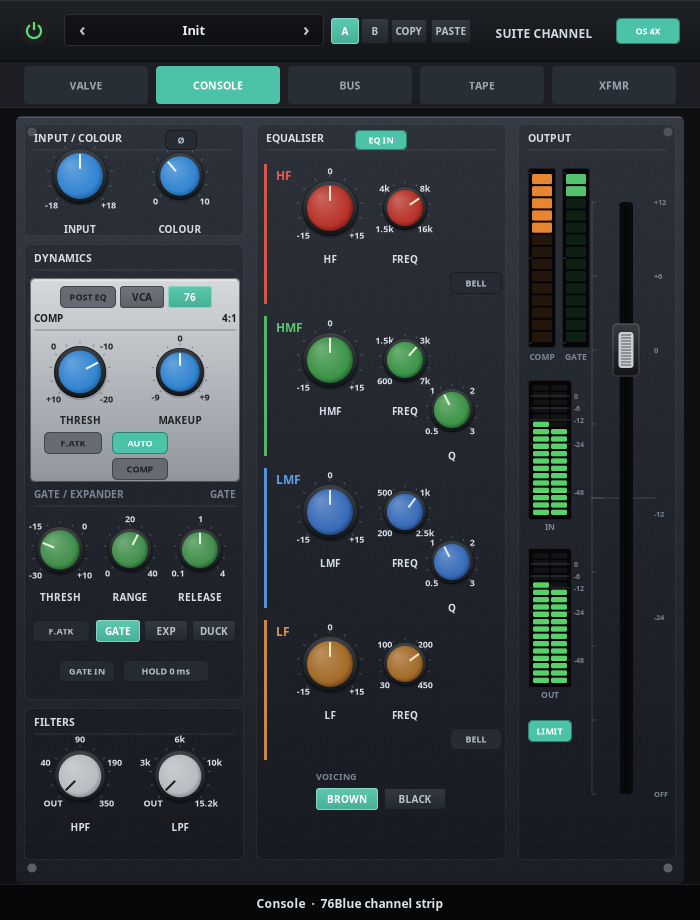
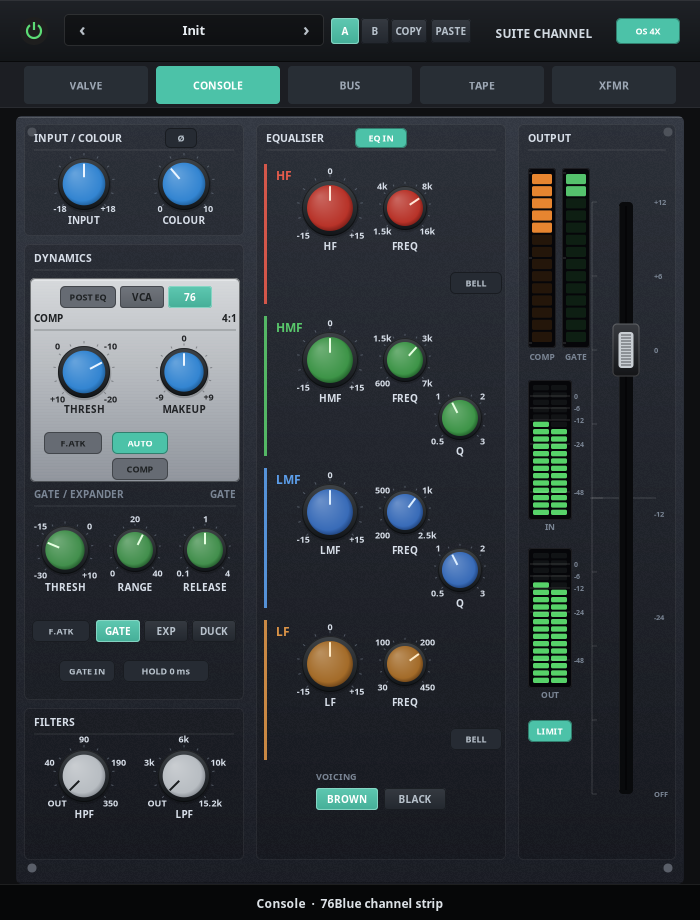
0.2.4: tighten input/EQ spacing, centre filter knobs

diff --git a/src/ui/panel.cpp b/src/ui/panel.cpp
@@ -415,10 +415,10 @@ void Panel::layout(const Shared& shared, const PanelState& state) {
 
   // Input / colour.
   const size_t inputRow = widgets_.size();
-  knob(P_INPUT, 80, 176, 28, "INPUT", sc(kScaleInput), true);
-  knob(P_COLOR_AMOUNT, 180, 176, 24, "COLOUR", sc(kScaleAmount), true);
-  alignLabels(inputRow, 233.0);
-  pill(P_POLARITY, 165, 130, 32, 20, "\u00d8");
+  knob(P_INPUT, 84, 184, 26, "INPUT", sc(kScaleInput), true, 1.30);
+  knob(P_COLOR_AMOUNT, 184, 184, 26, "COLOUR", sc(kScaleAmount), true, 1.30);
+  alignLabels(inputRow, 224.0);
+  pill(P_POLARITY, 165, 128, 32, 20, "\u00d8");
 
   // Dynamics.
   pill(P_DYN_POST, 60, 286, 56, 22, "POST EQ");
@@ -429,12 +429,12 @@ void Panel::layout(const Shared& shared, const PanelState& state) {
   widgets_.back().onSilver = silverComp;
 
   const size_t compKnobRow = widgets_.size();
-  knob(P_COMP_THRESHOLD, 80, 372, 26, "THRESH",
+  knob(P_COMP_THRESHOLD, 84, 372, 26, "THRESH",
        sc(kScaleCompThresh), true);
   widgets_.back().onSilver = silverComp;
-  knob(P_COMP_MAKEUP, 180, 372, 24, "MAKEUP", sc(kScaleMakeup), true);
+  knob(P_COMP_MAKEUP, 184, 372, 24, "MAKEUP", sc(kScaleMakeup), true);
   widgets_.back().onSilver = silverComp;
-  alignLabels(compKnobRow, 424.0);
+  alignLabels(compKnobRow, 413.0);
   pill(P_COMP_FAST, 44, 432, 58, 22, "F.ATK");
   widgets_.back().onSilver = silverComp;
   pill(P_COMP_AUTO, 112, 432, 56, 22, "AUTO");
@@ -444,11 +444,11 @@ void Panel::layout(const Shared& shared, const PanelState& state) {
 
   // Gate.
   const size_t gateKnobRow = widgets_.size();
-  knob(P_GATE_THRESHOLD, 60, 550, 24, "THRESH",
+  knob(P_GATE_THRESHOLD, 65, 550, 24, "THRESH",
        sc(kScaleGateThresh), true);
-  knob(P_GATE_RANGE, 130, 550, 22, "RANGE", sc(kScaleRange), true);
-  knob(P_GATE_RELEASE, 200, 550, 22, "RELEASE", sc(kScaleRelease), true);
-  alignLabels(gateKnobRow, 601.0);
+  knob(P_GATE_RANGE, 135, 550, 22, "RANGE", sc(kScaleRange), true);
+  knob(P_GATE_RELEASE, 205, 550, 22, "RELEASE", sc(kScaleRelease), true);
+  alignLabels(gateKnobRow, 591.0);
   pill(P_GATE_FAST, 32, 620, 58, 22, "F.ATK");
   button(P_GATE_MODE, 96, 620, 44, 22, 1.0, "GATE");
   button(P_GATE_MODE, 144, 620, 44, 22, 0.0, "EXP");
@@ -468,43 +468,45 @@ void Panel::layout(const Shared& shared, const PanelState& state) {
 
   // Filters.
   const size_t filterRow = widgets_.size();
-  knob(P_HPF, 80, 776, 26, "HPF", sc(kScaleHPF), true);
-  knob(P_LPF, 180, 776, 26, "LPF", sc(kScaleLPF), true);
-  alignLabels(filterRow, 831.0);
+  knob(P_HPF, 84, 776, 26, "HPF", sc(kScaleHPF), true);
+  knob(P_LPF, 184, 776, 26, "LPF", sc(kScaleLPF), true);
+  alignLabels(filterRow, 818.0);
 
   // EQ.
-  pill(P_EQ_IN, 355, 130, 52, 20, "EQ IN");
+  pill(P_EQ_IN, 355, 128, 52, 20, "EQ IN");
   button(P_EQ_TYPE, 316, 788, 62, 22, 0.0, "BROWN");
   button(P_EQ_TYPE, 384, 788, 62, 22, 1.0, "BLACK");
 
   // HF.
   const size_t hfRow = widgets_.size();
   knob(P_HF_GAIN, 330, 208, 28, "HF", sc(kScaleGain), true, 1.35);
-  knob(P_HF_FREQ, 405, 208, 22, "FREQ", sc(kScaleFreqHF), true, 1.30);
-  alignLabels(hfRow, 263.0);
+  knob(P_HF_FREQ, 405, 208, 22, "FREQ", sc(kScaleFreqHF), true, 1.45);
+  alignLabels(hfRow, 250.0);
   pill(P_HF_BELL, 450, 272, 52, 22, "BELL");
 
   // HMF.
   const size_t hmfRow = widgets_.size();
   knob(P_HM_GAIN, 330, 360, 28, "HMF", sc(kScaleGain), true, 1.35);
-  knob(P_HM_FREQ, 405, 360, 22, "FREQ", sc(kScaleFreqHM), true, 1.30);
-  alignLabels(hmfRow, 415.0);
-  knob(P_HM_Q, 452, 410, 22, "Q", sc(kScaleQ), true, 1.30);
+  knob(P_HM_FREQ, 405, 360, 22, "FREQ", sc(kScaleFreqHM), true, 1.45);
+  alignLabels(hmfRow, 402.0);
+  knob(P_HM_Q, 460, 418, 22, "Q", sc(kScaleQ), true, 1.45);
+  widgets_.back().labelY = 455.0;
 
   // LMF.
   const size_t lmfRow = widgets_.size();
   knob(P_LM_GAIN, 330, 512, 28, "LMF", sc(kScaleGain), true, 1.35);
-  knob(P_LM_FREQ, 405, 512, 22, "FREQ", sc(kScaleFreqLM), true, 1.30);
-  alignLabels(lmfRow, 567.0);
-  knob(P_LM_Q, 452, 562, 22, "Q", sc(kScaleQ), true, 1.30);
+  knob(P_LM_FREQ, 405, 512, 22, "FREQ", sc(kScaleFreqLM), true, 1.45);
+  alignLabels(lmfRow, 554.0);
+  knob(P_LM_Q, 460, 570, 22, "Q", sc(kScaleQ), true, 1.45);
+  widgets_.back().labelY = 607.0;
 
   // LF.
   const size_t lfRow = widgets_.size();
   knob(P_LF_GAIN, 330, 664, 28, "LF", sc(kScaleGain), true, 1.35);
   widgets_.back().blackEq = blackEq;
-  knob(P_LF_FREQ, 405, 664, 22, "FREQ", sc(kScaleFreqLF), true, 1.30);
+  knob(P_LF_FREQ, 405, 664, 22, "FREQ", sc(kScaleFreqLF), true, 1.45);
   widgets_.back().blackEq = blackEq;
-  alignLabels(lfRow, 719.0);
+  alignLabels(lfRow, 706.0);
   pill(P_LF_BELL, 450, 728, 52, 22, "BELL");
   widgets_.back().blackEq = blackEq;
 

diff --git a/src/version.hpp b/src/version.hpp
@@ -7,6 +7,6 @@ namespace suite {
 constexpr int kVersionMajor = 0;
 constexpr int kVersionMinor = 1;
 constexpr int kVersionMicro = 6;
-constexpr const char* kVersion = "0.2.3";
+constexpr const char* kVersion = "0.2.4";
 
 } // namespace suite

diff --git a/README.md b/README.md
@@ -1,6 +1,6 @@
 # Suite Channel
 
-**Version 0.2.3** · GPL-3.0-or-later · CLAP + LV2 · Linux
+**Version 0.2.4** · GPL-3.0-or-later · CLAP + LV2 · Linux
 
 Suite Channel is a vertical SSL-style channel strip in the Comp Suite visual
 language. It combines:
@@ -166,8 +166,11 @@ session. Treat the URI as permanent.
 
 ## Current status
 
-0.2.3 puts the gate GR meter on the CLAP/LV2 meters, aligns the phase and EQ IN
-buttons with their section headers, centres the wordmark, and aligns every
+0.2.4 tightens the Input/Colour and EQ knob groups against their labels,
+centres the filter knobs, moves the phase and EQ IN buttons above their section
+rules, and clears the EQ Freq/Q scale labels from the knob bodies.
+0.2.3 put the gate GR meter on the CLAP/LV2 meters, aligned the phase and EQ IN
+buttons with their section headers, centred the wordmark, and aligned every
 knob-name baseline within its row. 0.2.2 fixed the gate locking closed when a
 host supplied a silent sidechain buffer, flashes COPY/PASTE green on success,
 compacts those buttons and sizes the oversampling control to its text. 0.2.1 added **PASTE** and fixed the

diff --git a/CHANGELOG.md b/CHANGELOG.md
@@ -1,5 +1,18 @@
 # Changelog
 
+## 0.2.4 — 2026-11-16
+
+- Input and Colour knobs moved down and their name labels lifted, tightening
+  the group under the section header.
+- Filters knobs centred in the left column; Input/Colour, compressor and gate
+  knob rows nudged onto the panel centre line.
+- Phase and EQ IN buttons moved fully above their section rules.
+- EQ Freq and Q knobs use a wider scale radius so their scale labels clear the
+  knob bodies; the Q knobs moved right and down to stop colliding with the
+  Freq scale labels.
+- Knob name labels pulled closer to their scale labels across the compressor,
+  gate and EQ rows.
+
 ## 0.2.3 — 2026-11-16
 
 - Gate GR meter now works: the CLAP editor publishes gate gain reduction, and
